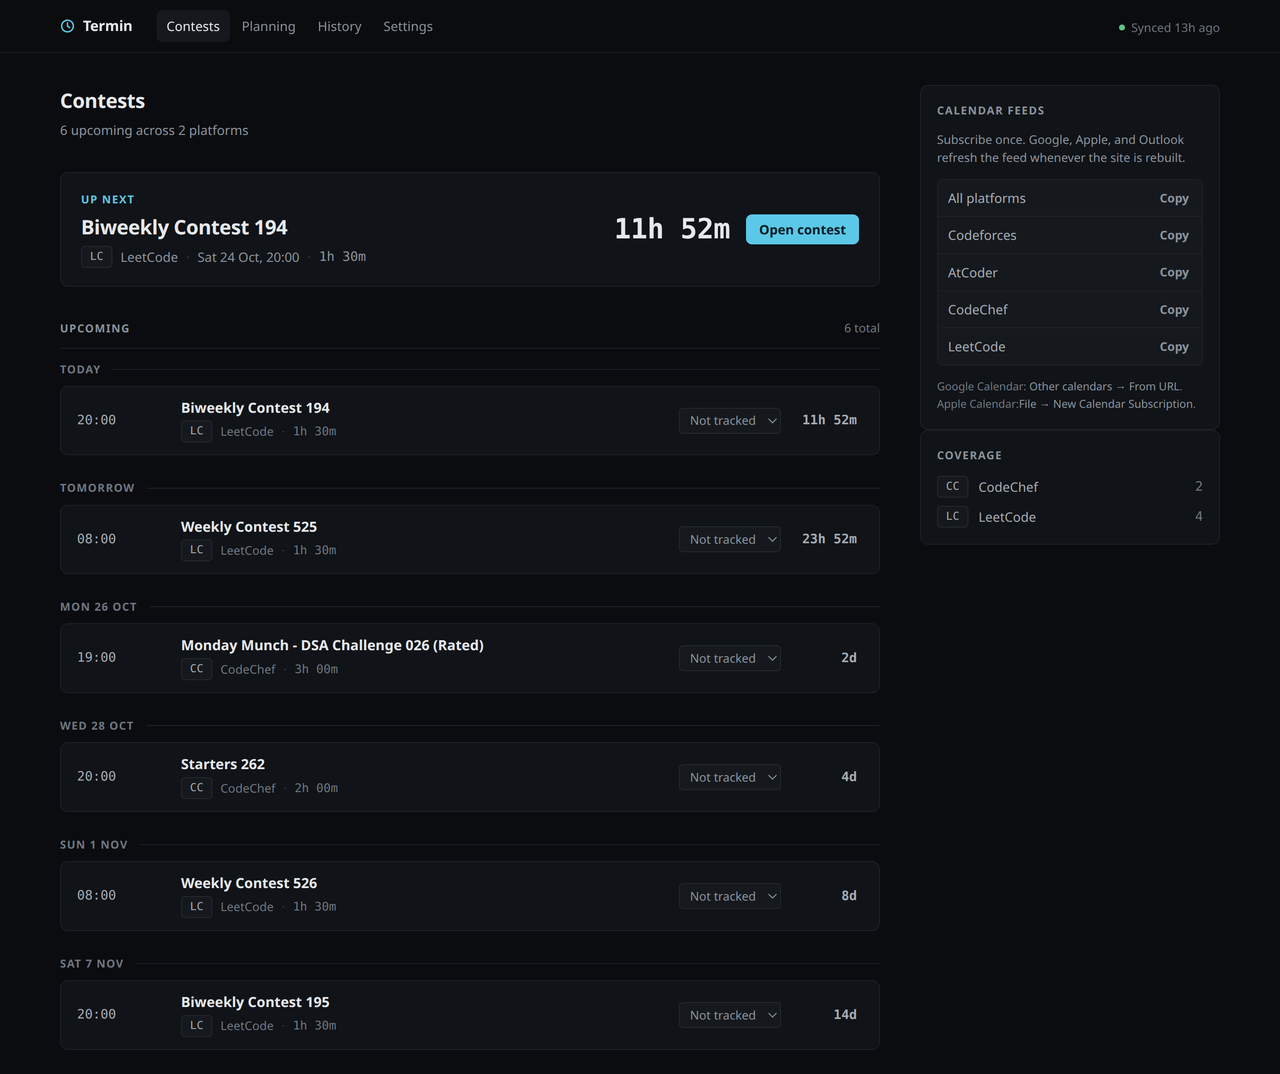
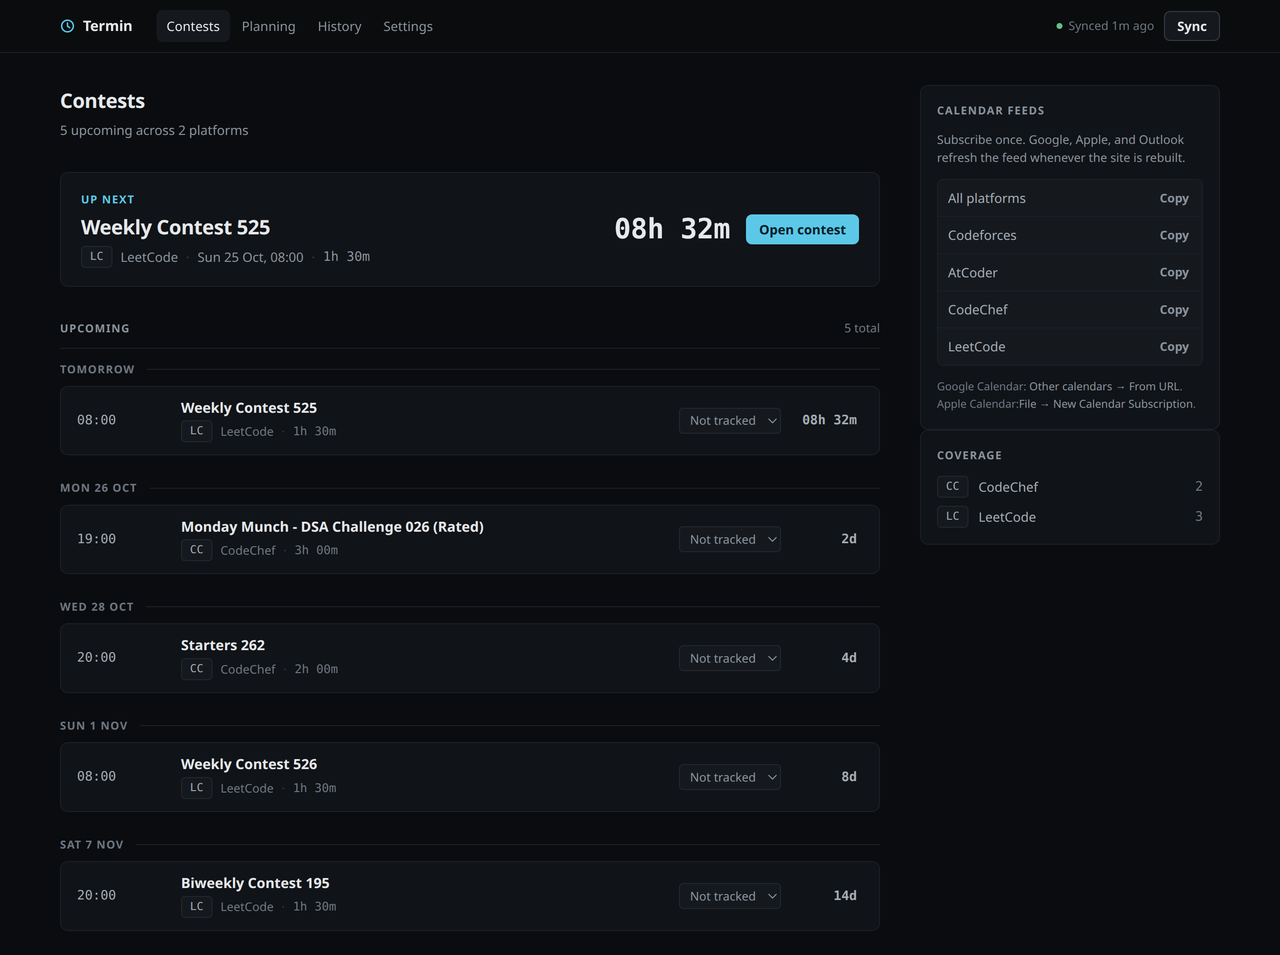
feat: sync contests from the dashboard
Add a Sync button to the toolbar so contests can be re-fetched without
leaving the page or opening a terminal.

- POST /api/sync runs the existing sync path and reports how many contests
  were stored, how many schedule changes were detected, and which providers
  failed. An in-process guard returns 409 for concurrent requests instead of
  stacking network calls.
- The button disables while a sync is in flight, reloads on success so the
  server-rendered lists pick up new data, and surfaces partial failures in a
  toast. Against a static build the endpoint is absent, so it says so rather
  than failing silently.
- Move the toast helper into src/lib/ui/toast.ts and give it an error
  variant, replacing the copy inlined in ContestCard.
- Point the empty states at the button instead of `npm run sync`, and
  document /api/sync alongside the other write endpoints.

diff --git a/src/pages/api/sync.ts b/src/pages/api/sync.ts
@@ -1,0 +1,44 @@
+import type { APIRoute } from 'astro';
+import { syncContests } from '../../lib/contests/sync';
+
+// One sync per server process. `syncContests` never rejects on a provider
+// failure, so this guard only trips on genuinely concurrent requests.
+let isSyncing = false;
+
+export const POST: APIRoute = async () => {
+  if (isSyncing) {
+    return new Response(
+      JSON.stringify({ error: 'A sync is already running' }),
+      {
+        status: 409,
+        headers: { 'Content-Type': 'application/json' },
+      }
+    );
+  }
+
+  isSyncing = true;
+
+  try {
+    const result = await syncContests();
+
+    return new Response(
+      JSON.stringify({
+        ok: result.failedProviders.length === 0,
+        synced: result.contests.length,
+        changes: result.changes.length,
+        failedProviders: result.failedProviders,
+      }),
+      {
+        status: 200,
+        headers: { 'Content-Type': 'application/json' },
+      }
+    );
+  } catch (err: any) {
+    return new Response(JSON.stringify({ error: 'Sync failed' }), {
+      status: 500,
+      headers: { 'Content-Type': 'application/json' },
+    });
+  } finally {
+    isSyncing = false;
+  }
+};

diff --git a/src/styles/global.css b/src/styles/global.css
@@ -175,8 +175,27 @@ a {
   background: var(--surface-elevated);
 }
 
-.topbar-status {
+.topbar-actions {
+  display: flex;
+  align-items: center;
+  gap: 10px;
   flex-shrink: 0;
+}
+
+.sync-button {
+  height: 26px;
+  padding: 0 10px;
+  font-size: 0.75rem;
+}
+
+@media (max-width: 640px) {
+  .topbar-inner {
+    gap: 16px;
+  }
+
+  .sync-status .sync-label {
+    display: none;
+  }
 }
 
 .page {
@@ -307,6 +326,11 @@ a {
 .btn:hover {
   background: var(--surface-hover);
   border-color: var(--border-strong);
+}
+
+.btn[disabled] {
+  opacity: 0.55;
+  cursor: default;
 }
 
 .btn-primary {
@@ -699,6 +723,11 @@ a {
   color: var(--text);
   font-size: 0.8125rem;
   box-shadow: 0 8px 24px rgba(0, 0, 0, 0.4);
+}
+
+.toast-error {
+  border-color: color-mix(in srgb, var(--danger) 45%, transparent);
+  color: var(--danger);
 }
 
 .pulse-once {

diff --git a/src/lib/ui/toast.ts b/src/lib/ui/toast.ts
@@ -1,0 +1,11 @@
+export function showToast(message: string, variant?: "error"): void {
+  const toast = document.createElement("div");
+
+  toast.className = variant ? `toast toast-${variant}` : "toast";
+  toast.setAttribute("role", "status");
+  toast.textContent = message;
+
+  document.body.appendChild(toast);
+
+  window.setTimeout(() => toast.remove(), 3000);
+}

diff --git a/README.md b/README.md
@@ -24,6 +24,7 @@ No account, no server, no telemetry — your data stays in `.data/termin.db`.
 | Resilient sync — one failing provider never wipes the others | ✅ |
 | Rejects invalid provider payloads instead of storing them | ✅ |
 | Detects schedule changes between syncs | ✅ |
+| Re-sync from the dashboard with the toolbar button | ✅ |
 | Personal preferences: platforms, weekly cap, preferred days and hours | ✅ |
 | Weekly planning with recommendations and conflict detection | ✅ |
 | Participation history and behavioural insights | ✅ |
@@ -44,9 +45,10 @@ npm run dev    # http://localhost:4321
 ```
 
 `npm run dev` is the full app: syncing, preferences, participation tracking, and
-the calendar feeds all work. A production build (`npm run build`) is a read-only
-snapshot, because the write endpoints only exist in the dev server. See
-[Limitations](#limitations).
+the calendar feeds all work. The **Sync** button in the toolbar re-fetches
+contests without leaving the page. A production build (`npm run build`) is a
+read-only snapshot, because the write endpoints only exist in the dev server.
+See [Limitations](#limitations).
 
 ## Calendar subscriptions
 
@@ -115,8 +117,9 @@ local time zone.
 ## Limitations
 
 - The write endpoints (`/api/preferences`, `/api/participation`,
-  `/api/planning`) only run in the dev server. A static build is read-only, so
-  preferences and participation tracking are disabled there.
+  `/api/planning`, `/api/sync`) only run in the dev server. A static build is
+  read-only, so preferences, participation tracking, and the **Sync** button are
+  disabled there.
 - Reminders are scheduled and stored, but no delivery channel is implemented
   yet. See the roadmap.
 - Migrations are forward-only. If a pre-1.0 database is incompatible, delete
